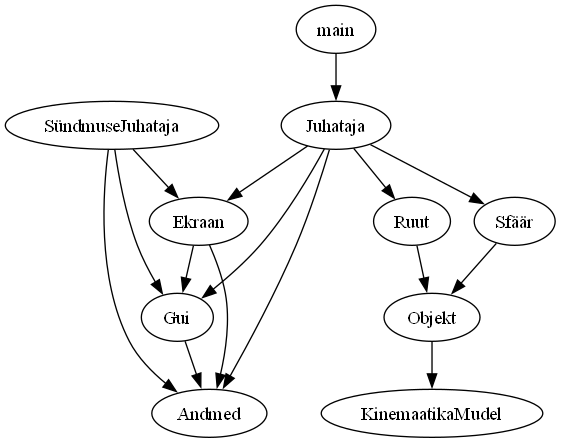
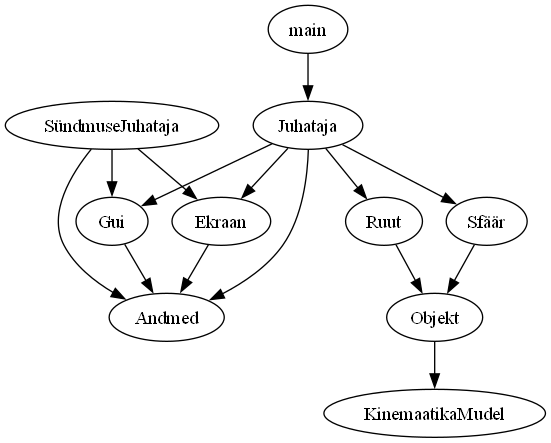
Update images

diff --git a/ksk/gui/Gui.py b/ksk/gui/Gui.py
@@ -4,11 +4,9 @@ from andmed.Andmed import Andmed
 import pygame_gui
 
 from pygame_gui.elements import UIWindow
-from pygame_gui.elements import UIButton
 from pygame_gui.elements import UIHorizontalSlider
 from pygame_gui.elements import UITextEntryLine
 from pygame_gui.elements import UIDropDownMenu
-from pygame_gui.elements import UIScreenSpaceHealthBar
 from pygame_gui.elements import UILabel
 
 import pygame

diff --git a/ksk/ekraan/Ekraan.py b/ksk/ekraan/Ekraan.py
@@ -1,5 +1,4 @@
 import pygame
-from gui.Gui import GUI
 from andmed.Andmed import Andmed
 
 andmed = Andmed().andmed
